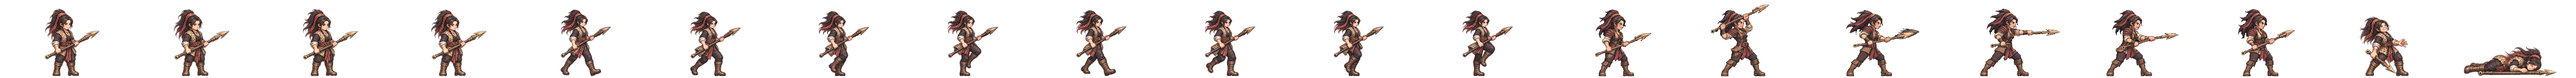
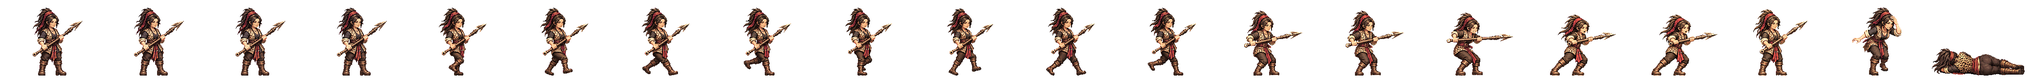
앳된 궁수 · 해적 두목 새 전투 띠를 게임에 (형 11-24: 완료된 건 게임에 반영 · 자는 동안 계속 만들어)
궁수: 서기·걷기 여덟 칸·활 쏘기·쓰러짐·개성 동작(땋은 머리 넘기기). 해적 두목: + 작살 찌르기 여덟 칸(넓은 동작 칸)·개성 동작(머리채 쓸어 넘기기).
둘 다 띠 검사 합격 · 얼굴 규칙(게임 크기에서 읽히는 단순한 얼굴)으로 그림.
wire-hero.py: 띠를 넣은 뒤 코드 네 곳(SPRITE_PX · 계획 · 옛 2배 그림 연결 · 겨루기)을 한 번에 맞춘다.
strip-build: 서기를 걷기에 맞출 때 가로·세로를 함께 겹쳐 본다(검사와 같은 셈).

Claude-Session: https://claude.ai/code/session_01TRiuN7s6aDfSnaHxrkctmU

Changed region(s): [[0.4688, 0.0625, 1.0, 0.9688], [0.0, 0.125, 0.4375, 0.9688]]

diff --git a/src/realm/data/spritePx.ts b/src/realm/data/spritePx.ts
@@ -1,3 +1,3 @@
 /** public/realm/anim-px/manifest.json 의 사본 — tools/sprite-normalize.mjs 가 만든다 (손으로 고치지 말 것). 칸 [가로, 세로] · feet = 발 줄(칸 위에서 y) · bodyPx = 서 있는 몸 키 */
 import { expandManifest } from './sprite-manifest.ts'
-export const SPRITE_PX: Readonly<Record<string, { readonly cell: readonly [number, number]; readonly feet: number; readonly bodyPx: number; readonly kind: 'general' | 'soldier' | 'folk' | 'crowd'; readonly cells: number }>> = expandManifest<{ readonly cell: readonly [number, number]; readonly feet: number; readonly bodyPx: number; readonly kind: 'general' | 'soldier' | 'folk' | 'crowd'; readonly cells: number }>([{"cell":[166,128],"feet":126,"bodyPx":124,"kind":"soldier","cells":20},{"cell":[116,128],"feet":126,"bodyPx":117,"kind":"soldier","cells":20},{"cell":[127,128],"feet":126,"bodyPx":116,"kind":"soldier","cells":20},{"cell":[269,128],"feet":126,"bodyPx":126,"kind":"soldier","cells":20},{"cell":[503,128],"feet":126,"bodyPx":127,"kind":"soldier","cells":20},{"cell":[614,128],"feet":126,"bodyPx":126,"kind":"soldier","cells":20},{"cell":[200,160],"feet":156,"bodyPx":138,"kind":"general","cells":20},{"cell":[208,160],"feet":155,"bodyPx":138,"kind":"general","cells":20},{"cell":[232,160],"feet":156,"bodyPx":138,"kind":"general","cells":20},{"cell":[208,160],"feet":154,"bodyPx":138,"kind":"general","cells":20},{"cell":[304,160],"feet":155,"bodyPx":135,"kind":"general","cells":20},{"cell":[224,160],"feet":156,"bodyPx":139,"kind":"general","cells":20},{"cell":[184,160],"feet":156,"bodyPx":138,"kind":"general","cells":20},{"cell":[208,160],"feet":154,"bodyPx":136,"kind":"general","cells":20},{"cell":[240,160],"feet":156,"bodyPx":138,"kind":"general","cells":20},{"cell":[208,160],"feet":156,"bodyPx":138,"kind":"general","cells":20},{"cell":[168,160],"feet":156,"bodyPx":138,"kind":"general","cells":20},{"cell":[192,160],"feet":156,"bodyPx":138,"kind":"general","cells":20},{"cell":[168,160],"feet":156,"bodyPx":124,"kind":"general","cells":20},{"cell":[216,160],"feet":156,"bodyPx":130,"kind":"general","cells":20},{"cell":[200,160],"feet":156,"bodyPx":116,"kind":"general","cells":20},{"cell":[200,160],"feet":156,"bodyPx":135,"kind":"general","cells":20},{"cell":[280,160],"feet":156,"bodyPx":138,"kind":"general","cells":20},{"cell":[232,160],"feet":155,"bodyPx":138,"kind":"general","cells":20},{"cell":[232,160],"feet":156,"bodyPx":134,"kind":"general","cells":20},{"cell":[144,160],"feet":156,"bodyPx":70,"kind":"general","cells":20},{"cell":[208,160],"feet":156,"bodyPx":70,"kind":"general","cells":20},{"cell":[192,160],"feet":156,"bodyPx":70,"kind":"general","cells":20},{"cell":[240,160],"feet":155,"bodyPx":138,"kind":"general","cells":20},{"cell":[160,160],"feet":156,"bodyPx":135,"kind":"general","cells":20},{"cell":[192,160],"feet":156,"bodyPx":128,"kind":"general","cells":20},{"cell":[224,160],"feet":155,"bodyPx":138,"kind":"general","cells":20},{"cell":[232,160],"feet":156,"bodyPx":139,"kind":"general","cells":20},{"cell":[264,160],"feet":155,"bodyPx":138,"kind":"general","cells":20},{"cell":[216,160],"feet":156,"bodyPx":138,"kind":"general","cells":20},{"cell":[208,160],"feet":156,"bodyPx":134,"kind":"general","cells":20},{"cell":[176,160],"feet":156,"bodyPx":130,"kind":"general","cells":20},{"cell":[248,160],"feet":156,"bodyPx":138,"kind":"general","cells":20},{"cell":[248,160],"feet":155,"bodyPx":138,"kind":"general","cells":20},{"cell":[192,160],"feet":155,"bodyPx":138,"kind":"general","cells":20},{"cell":[192,160],"feet":156,"bodyPx":124,"kind":"general","cells":20},{"cell":[208,160],"feet":154,"bodyPx":131,"kind":"general","cells":20},{"cell":[256,160],"feet":156,"bodyPx":138,"kind":"general","cells":20},{"cell":[232,160],"feet":156,"bodyPx":73,"kind":"general","cells":20},{"cell":[256,160],"feet":155,"bodyPx":138,"kind":"general","cells":20},{"cell":[224,160],"feet":156,"bodyPx":138,"kind":"general","cells":20},{"cell":[264,160],"feet":156,"bodyPx":138,"kind":"general","cells":20},{"cell":[224,160],"feet":156,"bodyPx":128,"kind":"general","cells":20},{"cell":[176,160],"feet":156,"bodyPx":129,"kind":"general","cells":20},{"cell":[208,160],"feet":156,"bodyPx":132,"kind":"general","cells":20},{"cell":[216,160],"feet":155,"bodyPx":138,"kind":"general","cells":20},{"cell":[184,160],"feet":156,"bodyPx":122,"kind":"general","cells":20},{"cell":[176,160],"feet":156,"bodyPx":138,"kind":"general","cells":20},{"cell":[280,160],"feet":155,"bodyPx":133,"kind":"general","cells":20},{"cell":[176,160],"feet":156,"bodyPx":70,"kind":"general","cells":20},{"cell":[186,128],"feet":126,"bodyPx":127,"kind":"soldier","cells":20},{"cell":[298,128],"feet":126,"bodyPx":126,"kind":"soldier","cells":20},{"cell":[82,128],"feet":126,"bodyPx":114,"kind":"folk","cells":8},{"cell":[134,128],"feet":126,"bodyPx":119,"kind":"soldier","cells":20},{"cell":[380,128],"feet":126,"bodyPx":124,"kind":"soldier","cells":20},{"cell":[114,128],"feet":126,"bodyPx":115,"kind":"soldier","cells":20},{"cell":[122,128],"feet":126,"bodyPx":114,"kind":"soldier","cells":20},{"cell":[254,128],"feet":126,"bodyPx":128,"kind":"soldier","cells":20},{"cell":[438,128],"feet":126,"bodyPx":126,"kind":"soldier","cells":20},{"cell":[88,128],"feet":126,"bodyPx":113,"kind":"folk","cells":8},{"cell":[100,128],"feet":126,"bodyPx":115,"kind":"folk","cells":8},{"cell":[108,128],"feet":126,"bodyPx":115,"kind":"folk","cells":8},{"cell":[63,128],"feet":126,"bodyPx":113,"kind":"folk","cells":8},{"cell":[69,96],"feet":96,"bodyPx":96,"kind":"crowd","cells":1},{"cell":[54,96],"feet":96,"bodyPx":96,"kind":"crowd","cells":1},{"cell":[47,96],"feet":96,"bodyPx":96,"kind":"crowd","cells":1},{"cell":[49,96],"feet":96,"bodyPx":96,"kind":"crowd","cells":1},{"cell":[57,96],"feet":96,"bodyPx":96,"kind":"crowd","cells":1},{"cell":[55,96],"feet":96,"bodyPx":96,"kind":"crowd","cells":1},{"cell":[45,96],"feet":96,"bodyPx":96,"kind":"crowd","cells":1},{"cell":[53,96],"feet":96,"bodyPx":96,"kind":"crowd","cells":1},{"cell":[64,96],"feet":96,"bodyPx":96,"kind":"crowd","cells":1},{"cell":[184,160],"feet":156,"bodyPx":124,"kind":"general","cells":20},{"cell":[184,160],"feet":156,"bodyPx":134,"kind":"general","cells":20},{"cell":[224,160],"feet":156,"bodyPx":133,"kind":"general","cells":20},{"cell":[192,160],"feet":156,"bodyPx":135,"kind":"general","cells":20},{"cell":[184,160],"feet":156,"bodyPx":137,"kind":"general","cells":20},{"cell":[216,160],"feet":156,"bodyPx":134,"kind":"general","cells":20},{"cell":[216,160],"feet":156,"bodyPx":132,"kind":"general","cells":20},{"cell":[288,160],"feet":156,"bodyPx":138,"kind":"general","cells":20},{"cell":[208,160],"feet":154,"bodyPx":139,"kind":"general","cells":20},{"cell":[192,160],"feet":156,"bodyPx":118,"kind":"general","cells":20},{"cell":[192,160],"feet":156,"bodyPx":134,"kind":"general","cells":20},{"cell":[192,160],"feet":157,"bodyPx":139,"kind":"general","cells":20},{"cell":[184,160],"feet":156,"bodyPx":128,"kind":"general","cells":20},{"cell":[240,160],"feet":156,"bodyPx":128,"kind":"general","cells":20},{"cell":[184,160],"feet":156,"bodyPx":132,"kind":"general","cells":20},{"cell":[208,160],"feet":156,"bodyPx":123,"kind":"general","cells":20},{"cell":[176,160],"feet":156,"bodyPx":116,"kind":"general","cells":20},{"cell":[272,160],"feet":156,"bodyPx":138,"kind":"general","cells":20},{"cell":[176,160],"feet":156,"bodyPx":122,"kind":"general","cells":20},{"cell":[232,160],"feet":156,"bodyPx":127,"kind":"general","cells":20},{"cell":[176,160],"feet":156,"bodyPx":137,"kind":"general","cells":20},{"cell":[184,160],"feet":156,"bodyPx":133,"kind":"general","cells":20}],[["axe",0],["bandit-chief",1],["bandit-club",2],["boat",3],["bow",4],["crossbow",5],["gen-adogan",6],["gen-alpyeong",7],["gen-ara",8],["gen-areum",9],["gen-aryeong",10],["gen-bakdal",6],["gen-baram",11],["gen-bdanbi",12],["gen-beom",13],["gen-beombal",12],["gen-beomi",14],["gen-bira",8],["gen-biryu",15],["gen-budeul",16],["gen-byeol",17],["gen-daemusin",18],["gen-daeso",19],["gen-dallae2",12],["gen-dalli",12],["gen-damul",20],["gen-danbi",15],["gen-dangung",17],["gen-darae",21],["gen-dokmudeom",7],["gen-duman",22],["gen-eomni",23],["gen-eureum",24],["gen-g-bow",25],["gen-g-spear",26],["gen-g-sword",27],["gen-gaennae",6],["gen-gamsil",28],["gen-gaon",29],["gen-geota",15],["gen-geumbawi",12],["gen-geumha",30],["gen-goeun",15],["gen-gom",31],["gen-gomok",15],["gen-gureum",28],["gen-guryema",17],["gen-gwaeyu",8],["gen-haebi",9],["gen-haedal",6],["gen-haesol",32],["gen-halla",7],["gen-heo",33],["gen-hneoul",12],["gen-hogong",34],["gen-hojin",15],["gen-horselord",35],["gen-hwalmi",36],["gen-hyeokgeose",17],["gen-hyeopbo",6],["gen-irang",15],["gen-jibaekho",37],["gen-jinha",38],["gen-jita",39],["gen-jumong",40],["gen-keundol",7],["gen-maehwa",41],["gen-maenun",17],["gen-malgalgi",42],["gen-mari",14],["gen-maro",37],["gen-maryeo",15],["gen-mdallae",32],["gen-mir",6],["gen-mount",43],["gen-mulbeom",44],["gen-mulsae",34],["gen-musoe",34],["gen-noeul",45],["gen-nuri",46],["gen-ocheongan",45],["gen-odi",38],["gen-odogan",6],["gen-ogan",17],["gen-oi",47],["gen-olddaeso",24],["gen-onjo",48],["gen-pidogan",15],["gen-sagong",31],["gen-sdallae",6],["gen-sincheongan",34],["gen-singwigan",34],["gen-sinneoul",23],["gen-sobeol",23],["gen-soebi",6],["gen-soebo",49],["gen-soenun",37],["gen-sogeumbi",50],["gen-songbi",45],["gen-songyang",51],["gen-sori",52],["gen-soseono",53],["gen-suro",17],["gen-tahae",6],["gen-tneoul",45],["gen-w-bow",25],["gen-w-spear",54],["gen-waechief",15],["gen-wan",34],["gen-yeodogan",15],["gen-yucheongan",15],["gen-yusugan",37],["horse",55],["marine",56],["migrant",57],["militia",58],["pike",59],["pirate-captain",60],["pirate-sword",61],["shield",62],["spear",63],["villager-builder",64],["villager-farmer",65],["villager-porter",66],["villager-woman",67],["crowd-b1",68],["crowd-b2",69],["crowd-b3",70],["crowd-b4",71],["crowd-b5",72],["crowd-b6",73],["crowd-f1",68],["crowd-f2",73],["crowd-f3",74],["crowd-f4",75],["crowd-f5",68],["crowd-f6",76],["gen-dalbit",15],["gen-base-g-07-drunk-warrior",17],["gen-base-g-40-anya-adan",15],["gen-base-w-13-young-archer",15],["gen-base-g-03-sea-trader",14],["gen-base-w-10-pirate-captain",46],["gen-base-w-64-miri-dallae",14],["gen-base-g-41-goja-bau",14],["gen-base-g-42-dokro-garam",46],["gen-base-g-09-farmer-conscript",34],["gen-base-w-02-goguryeo-lady",34],["gen-base-w-17-mahan-pearl-diver",45],["gen-base-g-17-saro-isageum",49],["gen-base-g-18-daegaya-king",77],["gen-base-g-35-dabeol-dalgu",15],["gen-base-g-19-sabeol-veteran",34],["gen-base-w-23-usisan-whale-queen",34],["gen-base-g-36-gammun-gamdol",45],["gen-base-g-20-samul-sea-lord",42],["gen-base-g-37-eumjeup-jeup",12],["gen-base-g-38-chopal-palmae",17],["gen-base-w-75-daegaya-soemoe",17],["gen-base-g-45-dabeol-deulgae",12],["gen-base-g-04-jinhan-giant",15],["gen-base-g-08-veteran",15],["gen-base-w-18-jinhan-salt-widow",15],["gen-base-w-12-court-dancer",78],["gen-base-w-83-gyeonji-beodeul",79],["gen-base-w-05-baekje-queen",80],["gen-base-w-21-baekje-court-dancer",12],["gen-base-g-01-master-smith",81],["gen-base-g-93-jomun-solgae",36],["gen-base-g-57-bihwa-neup",14],["gen-base-w-72-eumjeup-beol",15],["gen-base-w-102-garak-dana",34],["gen-base-g-68-baekje-onnuri",15],["gen-base-w-27-mokji-jinha",6],["gen-base-g-22-ungcheon-gomnae",6],["gen-base-g-23-sangdang-soedal",15],["gen-base-g-24-wansan-onsan",6],["gen-base-g-25-balla-keunmoe",34],["gen-base-g-61-heomcheuk-bawi",34],["gen-base-g-88-wander-soeul",45],["gen-base-w-14-feast-spy",6],["gen-base-g-12-silla-youth",82],["gen-base-w-08-mahan-warrior",14],["gen-base-g-62-beonye-hanul",14],["gen-base-g-63-heomcheuk-beogeum",15],["gen-base-g-84-wander-seoneul",15],["gen-base-w-50-siljik-mulga",34],["gen-base-g-46-uga-nureongso",34],["gen-base-w-80-usan-gangchi",14],["gen-base-g-47-guga-sanyanggae",34],["gen-base-w-76-gampyeong-baetsagong",37],["gen-base-g-05-mahan-chieftain",83],["gen-base-g-58-usan-uhae",15],["gen-base-g-27-maek-maekdol",15],["gen-base-w-53-hwanna-gabi",16],["gen-base-w-29-golpo-janmul",37],["gen-base-g-53-baekje-haeru",6],["gen-base-w-71-yeonna-neoul",14],["gen-base-w-79-yangmaek-solmae",34],["gen-base-w-34-chopal-deulme",46],["gen-base-g-44-maga-malgup",84],["gen-base-w-31-dabeol-dalbit",85],["gen-base-g-51-biryuna-mulgyeol",45],["gen-base-g-48-gwanna-musoe",15],["gen-base-g-32-uga-sodu",8],["gen-base-g-49-goguryeo-sona",86],["gen-base-g-30-gwanna-soemoe",45],["gen-base-g-52-tamna-oreum",12],["gen-base-g-29-yeonna-myeongsol",40],["gen-base-w-56-dongokjeo-sogeum",87],["gen-base-g-54-mokji-mahan",8],["gen-base-g-33-jeoga-metdol",17],["gen-base-w-36-baekje-maena",17],["gen-base-w-38-sangdang-bulmae",6],["gen-base-w-39-gosaburi-galmae",88],["gen-base-w-40-mujin-munui",49],["gen-base-w-41-hwanna-beodeul",89],["gen-base-w-43-uga-nuri",42],["gen-base-w-45-tamna-oreumbi",12],["gen-base-g-60-golbeol-golgae",12],["gen-base-g-61-apdok-ap",34],["gen-base-g-62-gammun-gamnamu",6],["gen-base-g-63-chopal-yeoul",37],["gen-base-g-64-michuhol-sogeumkkun",14],["gen-base-g-65-sangdang-soemangchi",45],["gen-base-g-66-geonma-malbalgup",90],["gen-base-g-67-gosaburi-buri",91],["gen-base-g-68-mujin-bitgoeul",12],["gen-base-g-69-goryong-yong",45],["gen-base-g-70-siljik-pado",14],["gen-base-w-81-byeokjin-byeolbit",8],["gen-base-w-46-geonma-maru",37],["gen-base-w-48-mujin-mudeung",14],["gen-base-g-26-gampyeong-gaetbeol",8],["gen-base-g-60-eupcha-hangyeol",92],["gen-base-g-15-shaman-man",34],["gen-base-g-85-wander-ure",37],["gen-base-g-43-hwanna-amnok",15],["gen-base-g-50-bullae-gwaha",80],["gen-base-g-55-saro-bakdal",15],["gen-base-g-56-haseulla-gwahama",6],["gen-base-w-06-buyeo-huntress",14],["gen-base-w-22-dongye-tiger-huntress",14],["gen-base-w-25-bihwa-priestess",34],["gen-base-w-24-apdok-queen",12],["gen-base-w-61-iseo-sinae",15],["gen-base-w-26-iseo-tomboy-general",46],["gen-base-g-59-yangmaek-maekson",93],["gen-aw1-haebi",45],["gen-aw1-soseono",94],["gen-aw1-gamsil",12],["gen-aw1-mir",52],["gen-aw1-dangung",6],["gen-aw1-ara",45],["gen-aw1-jumong",95],["gen-aw1-onjo",96],["gen-aw1-base-w-83-gyeonji-beodeul",17],["gen-aw1-heo",46],["gen-aw1-base-g-38-chopal-palmae",6],["gen-aw1-base-w-25-bihwa-priestess",78],["gen-aw1-sori",16],["gen-aw1-gomok",6],["gen-aw1-irang",17],["gen-aw1-budeul",16],["gen-aw1-gom",14],["gen-aw1-sdallae",6],["gen-aw1-base-w-13-young-archer",6],["gen-aw1-base-w-36-baekje-maena",97],["gen-aw1-base-g-09-farmer-conscript",46],["gen-aw1-base-w-02-goguryeo-lady",98],["gen-aw1-haedal",12],["gen-aw1-hogong",6],["gen-aw1-maehwa",52],["gen-aw1-base-w-06-buyeo-huntress",8],["gen-aw1-base-w-08-mahan-warrior",45],["gen-aw1-base-w-29-golpo-janmul",45],["gen-aw1-base-w-31-dabeol-dalbit",17],["gen-aw1-base-w-38-sangdang-bulmae",16],["gen-aw1-bira",34],["gen-aw1-base-w-53-hwanna-gabi",16],["gen-aw1-base-w-56-dongokjeo-sogeum",52],["gen-aw1-base-w-72-eumjeup-beol",17],["gen-aw1-bdanbi",16],["gen-aw1-beom",12],["gen-aw1-beombal",12],["gen-aw1-byeol",17],["gen-aw1-dalli",52],["gen-aw1-malgalgi",37],["gen-aw1-sincheongan",34]])
+export const SPRITE_PX: Readonly<Record<string, { readonly cell: readonly [number, number]; readonly feet: number; readonly bodyPx: number; readonly kind: 'general' | 'soldier' | 'folk' | 'crowd'; readonly cells: number }>> = expandManifest<{ readonly cell: readonly [number, number]; readonly feet: number; readonly bodyPx: number; readonly kind: 'general' | 'soldier' | 'folk' | 'crowd'; readonly cells: number }>([{"cell":[166,128],"feet":126,"bodyPx":124,"kind":"soldier","cells":20},{"cell":[116,128],"feet":126,"bodyPx":117,"kind":"soldier","cells":20},{"cell":[127,128],"feet":126,"bodyPx":116,"kind":"soldier","cells":20},{"cell":[269,128],"feet":126,"bodyPx":126,"kind":"soldier","cells":20},{"cell":[503,128],"feet":126,"bodyPx":127,"kind":"soldier","cells":20},{"cell":[614,128],"feet":126,"bodyPx":126,"kind":"soldier","cells":20},{"cell":[200,160],"feet":156,"bodyPx":138,"kind":"general","cells":20},{"cell":[208,160],"feet":155,"bodyPx":138,"kind":"general","cells":20},{"cell":[232,160],"feet":156,"bodyPx":138,"kind":"general","cells":20},{"cell":[208,160],"feet":154,"bodyPx":138,"kind":"general","cells":20},{"cell":[304,160],"feet":155,"bodyPx":135,"kind":"general","cells":20},{"cell":[224,160],"feet":156,"bodyPx":139,"kind":"general","cells":20},{"cell":[184,160],"feet":156,"bodyPx":138,"kind":"general","cells":20},{"cell":[208,160],"feet":154,"bodyPx":136,"kind":"general","cells":20},{"cell":[240,160],"feet":156,"bodyPx":138,"kind":"general","cells":20},{"cell":[208,160],"feet":156,"bodyPx":138,"kind":"general","cells":20},{"cell":[168,160],"feet":156,"bodyPx":138,"kind":"general","cells":20},{"cell":[192,160],"feet":156,"bodyPx":138,"kind":"general","cells":20},{"cell":[168,160],"feet":156,"bodyPx":124,"kind":"general","cells":20},{"cell":[216,160],"feet":156,"bodyPx":130,"kind":"general","cells":20},{"cell":[200,160],"feet":156,"bodyPx":116,"kind":"general","cells":20},{"cell":[200,160],"feet":156,"bodyPx":135,"kind":"general","cells":20},{"cell":[280,160],"feet":156,"bodyPx":138,"kind":"general","cells":20},{"cell":[232,160],"feet":155,"bodyPx":138,"kind":"general","cells":20},{"cell":[232,160],"feet":156,"bodyPx":134,"kind":"general","cells":20},{"cell":[144,160],"feet":156,"bodyPx":70,"kind":"general","cells":20},{"cell":[208,160],"feet":156,"bodyPx":70,"kind":"general","cells":20},{"cell":[192,160],"feet":156,"bodyPx":70,"kind":"general","cells":20},{"cell":[240,160],"feet":155,"bodyPx":138,"kind":"general","cells":20},{"cell":[160,160],"feet":156,"bodyPx":135,"kind":"general","cells":20},{"cell":[192,160],"feet":156,"bodyPx":128,"kind":"general","cells":20},{"cell":[224,160],"feet":155,"bodyPx":138,"kind":"general","cells":20},{"cell":[232,160],"feet":156,"bodyPx":139,"kind":"general","cells":20},{"cell":[264,160],"feet":155,"bodyPx":138,"kind":"general","cells":20},{"cell":[216,160],"feet":156,"bodyPx":138,"kind":"general","cells":20},{"cell":[208,160],"feet":156,"bodyPx":134,"kind":"general","cells":20},{"cell":[176,160],"feet":156,"bodyPx":130,"kind":"general","cells":20},{"cell":[248,160],"feet":156,"bodyPx":138,"kind":"general","cells":20},{"cell":[248,160],"feet":155,"bodyPx":138,"kind":"general","cells":20},{"cell":[192,160],"feet":155,"bodyPx":138,"kind":"general","cells":20},{"cell":[192,160],"feet":156,"bodyPx":124,"kind":"general","cells":20},{"cell":[208,160],"feet":154,"bodyPx":131,"kind":"general","cells":20},{"cell":[256,160],"feet":156,"bodyPx":138,"kind":"general","cells":20},{"cell":[232,160],"feet":156,"bodyPx":73,"kind":"general","cells":20},{"cell":[256,160],"feet":155,"bodyPx":138,"kind":"general","cells":20},{"cell":[224,160],"feet":156,"bodyPx":138,"kind":"general","cells":20},{"cell":[264,160],"feet":156,"bodyPx":138,"kind":"general","cells":20},{"cell":[224,160],"feet":156,"bodyPx":128,"kind":"general","cells":20},{"cell":[176,160],"feet":156,"bodyPx":129,"kind":"general","cells":20},{"cell":[208,160],"feet":156,"bodyPx":132,"kind":"general","cells":20},{"cell":[216,160],"feet":155,"bodyPx":138,"kind":"general","cells":20},{"cell":[184,160],"feet":156,"bodyPx":122,"kind":"general","cells":20},{"cell":[176,160],"feet":156,"bodyPx":138,"kind":"general","cells":20},{"cell":[280,160],"feet":155,"bodyPx":133,"kind":"general","cells":20},{"cell":[176,160],"feet":156,"bodyPx":70,"kind":"general","cells":20},{"cell":[186,128],"feet":126,"bodyPx":127,"kind":"soldier","cells":20},{"cell":[298,128],"feet":126,"bodyPx":126,"kind":"soldier","cells":20},{"cell":[82,128],"feet":126,"bodyPx":114,"kind":"folk","cells":8},{"cell":[134,128],"feet":126,"bodyPx":119,"kind":"soldier","cells":20},{"cell":[380,128],"feet":126,"bodyPx":124,"kind":"soldier","cells":20},{"cell":[114,128],"feet":126,"bodyPx":115,"kind":"soldier","cells":20},{"cell":[122,128],"feet":126,"bodyPx":114,"kind":"soldier","cells":20},{"cell":[254,128],"feet":126,"bodyPx":128,"kind":"soldier","cells":20},{"cell":[438,128],"feet":126,"bodyPx":126,"kind":"soldier","cells":20},{"cell":[88,128],"feet":126,"bodyPx":113,"kind":"folk","cells":8},{"cell":[100,128],"feet":126,"bodyPx":115,"kind":"folk","cells":8},{"cell":[108,128],"feet":126,"bodyPx":115,"kind":"folk","cells":8},{"cell":[63,128],"feet":126,"bodyPx":113,"kind":"folk","cells":8},{"cell":[69,96],"feet":96,"bodyPx":96,"kind":"crowd","cells":1},{"cell":[54,96],"feet":96,"bodyPx":96,"kind":"crowd","cells":1},{"cell":[47,96],"feet":96,"bodyPx":96,"kind":"crowd","cells":1},{"cell":[49,96],"feet":96,"bodyPx":96,"kind":"crowd","cells":1},{"cell":[57,96],"feet":96,"bodyPx":96,"kind":"crowd","cells":1},{"cell":[55,96],"feet":96,"bodyPx":96,"kind":"crowd","cells":1},{"cell":[45,96],"feet":96,"bodyPx":96,"kind":"crowd","cells":1},{"cell":[53,96],"feet":96,"bodyPx":96,"kind":"crowd","cells":1},{"cell":[64,96],"feet":96,"bodyPx":96,"kind":"crowd","cells":1},{"cell":[208,160],"feet":154,"bodyPx":139,"kind":"general","cells":20},{"cell":[184,160],"feet":156,"bodyPx":124,"kind":"general","cells":20},{"cell":[184,160],"feet":156,"bodyPx":134,"kind":"general","cells":20},{"cell":[224,160],"feet":156,"bodyPx":133,"kind":"general","cells":20},{"cell":[192,160],"feet":156,"bodyPx":135,"kind":"general","cells":20},{"cell":[184,160],"feet":156,"bodyPx":137,"kind":"general","cells":20},{"cell":[216,160],"feet":156,"bodyPx":134,"kind":"general","cells":20},{"cell":[216,160],"feet":156,"bodyPx":132,"kind":"general","cells":20},{"cell":[288,160],"feet":156,"bodyPx":138,"kind":"general","cells":20},{"cell":[192,160],"feet":156,"bodyPx":118,"kind":"general","cells":20},{"cell":[192,160],"feet":156,"bodyPx":134,"kind":"general","cells":20},{"cell":[192,160],"feet":157,"bodyPx":139,"kind":"general","cells":20},{"cell":[184,160],"feet":156,"bodyPx":128,"kind":"general","cells":20},{"cell":[240,160],"feet":156,"bodyPx":128,"kind":"general","cells":20},{"cell":[184,160],"feet":156,"bodyPx":132,"kind":"general","cells":20},{"cell":[208,160],"feet":156,"bodyPx":123,"kind":"general","cells":20},{"cell":[176,160],"feet":156,"bodyPx":116,"kind":"general","cells":20},{"cell":[272,160],"feet":156,"bodyPx":138,"kind":"general","cells":20},{"cell":[176,160],"feet":156,"bodyPx":122,"kind":"general","cells":20},{"cell":[232,160],"feet":156,"bodyPx":127,"kind":"general","cells":20},{"cell":[176,160],"feet":156,"bodyPx":137,"kind":"general","cells":20},{"cell":[184,160],"feet":156,"bodyPx":133,"kind":"general","cells":20}],[["axe",0],["bandit-chief",1],["bandit-club",2],["boat",3],["bow",4],["crossbow",5],["gen-adogan",6],["gen-alpyeong",7],["gen-ara",8],["gen-areum",9],["gen-aryeong",10],["gen-bakdal",6],["gen-baram",11],["gen-bdanbi",12],["gen-beom",13],["gen-beombal",12],["gen-beomi",14],["gen-bira",8],["gen-biryu",15],["gen-budeul",16],["gen-byeol",17],["gen-daemusin",18],["gen-daeso",19],["gen-dallae2",12],["gen-dalli",12],["gen-damul",20],["gen-danbi",15],["gen-dangung",17],["gen-darae",21],["gen-dokmudeom",7],["gen-duman",22],["gen-eomni",23],["gen-eureum",24],["gen-g-bow",25],["gen-g-spear",26],["gen-g-sword",27],["gen-gaennae",6],["gen-gamsil",28],["gen-gaon",29],["gen-geota",15],["gen-geumbawi",12],["gen-geumha",30],["gen-goeun",15],["gen-gom",31],["gen-gomok",15],["gen-gureum",28],["gen-guryema",17],["gen-gwaeyu",8],["gen-haebi",9],["gen-haedal",6],["gen-haesol",32],["gen-halla",7],["gen-heo",33],["gen-hneoul",12],["gen-hogong",34],["gen-hojin",15],["gen-horselord",35],["gen-hwalmi",36],["gen-hyeokgeose",17],["gen-hyeopbo",6],["gen-irang",15],["gen-jibaekho",37],["gen-jinha",38],["gen-jita",39],["gen-jumong",40],["gen-keundol",7],["gen-maehwa",41],["gen-maenun",17],["gen-malgalgi",42],["gen-mari",14],["gen-maro",37],["gen-maryeo",15],["gen-mdallae",32],["gen-mir",6],["gen-mount",43],["gen-mulbeom",44],["gen-mulsae",34],["gen-musoe",34],["gen-noeul",45],["gen-nuri",46],["gen-ocheongan",45],["gen-odi",38],["gen-odogan",6],["gen-ogan",17],["gen-oi",47],["gen-olddaeso",24],["gen-onjo",48],["gen-pidogan",15],["gen-sagong",31],["gen-sdallae",6],["gen-sincheongan",34],["gen-singwigan",34],["gen-sinneoul",23],["gen-sobeol",23],["gen-soebi",6],["gen-soebo",49],["gen-soenun",37],["gen-sogeumbi",50],["gen-songbi",45],["gen-songyang",51],["gen-sori",52],["gen-soseono",53],["gen-suro",17],["gen-tahae",6],["gen-tneoul",45],["gen-w-bow",25],["gen-w-spear",54],["gen-waechief",15],["gen-wan",34],["gen-yeodogan",15],["gen-yucheongan",15],["gen-yusugan",37],["horse",55],["marine",56],["migrant",57],["militia",58],["pike",59],["pirate-captain",60],["pirate-sword",61],["shield",62],["spear",63],["villager-builder",64],["villager-farmer",65],["villager-porter",66],["villager-woman",67],["crowd-b1",68],["crowd-b2",69],["crowd-b3",70],["crowd-b4",71],["crowd-b5",72],["crowd-b6",73],["crowd-f1",68],["crowd-f2",73],["crowd-f3",74],["crowd-f4",75],["crowd-f5",68],["crowd-f6",76],["gen-dalbit",15],["gen-base-g-07-drunk-warrior",17],["gen-base-g-40-anya-adan",15],["gen-base-w-13-young-archer",9],["gen-base-g-03-sea-trader",14],["gen-base-w-10-pirate-captain",77],["gen-base-w-64-miri-dallae",14],["gen-base-g-41-goja-bau",14],["gen-base-g-42-dokro-garam",46],["gen-base-g-09-farmer-conscript",34],["gen-base-w-02-goguryeo-lady",34],["gen-base-w-17-mahan-pearl-diver",45],["gen-base-g-17-saro-isageum",49],["gen-base-g-18-daegaya-king",78],["gen-base-g-35-dabeol-dalgu",15],["gen-base-g-19-sabeol-veteran",34],["gen-base-w-23-usisan-whale-queen",34],["gen-base-g-36-gammun-gamdol",45],["gen-base-g-20-samul-sea-lord",42],["gen-base-g-37-eumjeup-jeup",12],["gen-base-g-38-chopal-palmae",17],["gen-base-w-75-daegaya-soemoe",17],["gen-base-g-45-dabeol-deulgae",12],["gen-base-g-04-jinhan-giant",15],["gen-base-g-08-veteran",15],["gen-base-w-18-jinhan-salt-widow",15],["gen-base-w-12-court-dancer",79],["gen-base-w-83-gyeonji-beodeul",80],["gen-base-w-05-baekje-queen",81],["gen-base-w-21-baekje-court-dancer",12],["gen-base-g-01-master-smith",82],["gen-base-g-93-jomun-solgae",36],["gen-base-g-57-bihwa-neup",14],["gen-base-w-72-eumjeup-beol",15],["gen-base-w-102-garak-dana",34],["gen-base-g-68-baekje-onnuri",15],["gen-base-w-27-mokji-jinha",6],["gen-base-g-22-ungcheon-gomnae",6],["gen-base-g-23-sangdang-soedal",15],["gen-base-g-24-wansan-onsan",6],["gen-base-g-25-balla-keunmoe",34],["gen-base-g-61-heomcheuk-bawi",34],["gen-base-g-88-wander-soeul",45],["gen-base-w-14-feast-spy",6],["gen-base-g-12-silla-youth",83],["gen-base-w-08-mahan-warrior",14],["gen-base-g-62-beonye-hanul",14],["gen-base-g-63-heomcheuk-beogeum",15],["gen-base-g-84-wander-seoneul",15],["gen-base-w-50-siljik-mulga",34],["gen-base-g-46-uga-nureongso",34],["gen-base-w-80-usan-gangchi",14],["gen-base-g-47-guga-sanyanggae",34],["gen-base-w-76-gampyeong-baetsagong",37],["gen-base-g-05-mahan-chieftain",84],["gen-base-g-58-usan-uhae",15],["gen-base-g-27-maek-maekdol",15],["gen-base-w-53-hwanna-gabi",16],["gen-base-w-29-golpo-janmul",37],["gen-base-g-53-baekje-haeru",6],["gen-base-w-71-yeonna-neoul",14],["gen-base-w-79-yangmaek-solmae",34],["gen-base-w-34-chopal-deulme",46],["gen-base-g-44-maga-malgup",85],["gen-base-w-31-dabeol-dalbit",77],["gen-base-g-51-biryuna-mulgyeol",45],["gen-base-g-48-gwanna-musoe",15],["gen-base-g-32-uga-sodu",8],["gen-base-g-49-goguryeo-sona",86],["gen-base-g-30-gwanna-soemoe",45],["gen-base-g-52-tamna-oreum",12],["gen-base-g-29-yeonna-myeongsol",40],["gen-base-w-56-dongokjeo-sogeum",87],["gen-base-g-54-mokji-mahan",8],["gen-base-g-33-jeoga-metdol",17],["gen-base-w-36-baekje-maena",17],["gen-base-w-38-sangdang-bulmae",6],["gen-base-w-39-gosaburi-galmae",88],["gen-base-w-40-mujin-munui",49],["gen-base-w-41-hwanna-beodeul",89],["gen-base-w-43-uga-nuri",42],["gen-base-w-45-tamna-oreumbi",12],["gen-base-g-60-golbeol-golgae",12],["gen-base-g-61-apdok-ap",34],["gen-base-g-62-gammun-gamnamu",6],["gen-base-g-63-chopal-yeoul",37],["gen-base-g-64-michuhol-sogeumkkun",14],["gen-base-g-65-sangdang-soemangchi",45],["gen-base-g-66-geonma-malbalgup",90],["gen-base-g-67-gosaburi-buri",91],["gen-base-g-68-mujin-bitgoeul",12],["gen-base-g-69-goryong-yong",45],["gen-base-g-70-siljik-pado",14],["gen-base-w-81-byeokjin-byeolbit",8],["gen-base-w-46-geonma-maru",37],["gen-base-w-48-mujin-mudeung",14],["gen-base-g-26-gampyeong-gaetbeol",8],["gen-base-g-60-eupcha-hangyeol",92],["gen-base-g-15-shaman-man",34],["gen-base-g-85-wander-ure",37],["gen-base-g-43-hwanna-amnok",15],["gen-base-g-50-bullae-gwaha",81],["gen-base-g-55-saro-bakdal",15],["gen-base-g-56-haseulla-gwahama",6],["gen-base-w-06-buyeo-huntress",14],["gen-base-w-22-dongye-tiger-huntress",14],["gen-base-w-25-bihwa-priestess",34],["gen-base-w-24-apdok-queen",12],["gen-base-w-61-iseo-sinae",15],["gen-base-w-26-iseo-tomboy-general",46],["gen-base-g-59-yangmaek-maekson",93],["gen-aw1-haebi",45],["gen-aw1-soseono",94],["gen-aw1-gamsil",12],["gen-aw1-mir",52],["gen-aw1-dangung",6],["gen-aw1-ara",45],["gen-aw1-jumong",95],["gen-aw1-onjo",96],["gen-aw1-base-w-83-gyeonji-beodeul",17],["gen-aw1-heo",46],["gen-aw1-base-g-38-chopal-palmae",6],["gen-aw1-base-w-25-bihwa-priestess",79],["gen-aw1-sori",16],["gen-aw1-gomok",6],["gen-aw1-irang",17],["gen-aw1-budeul",16],["gen-aw1-gom",14],["gen-aw1-sdallae",6],["gen-aw1-base-w-13-young-archer",6],["gen-aw1-base-w-36-baekje-maena",97],["gen-aw1-base-g-09-farmer-conscript",46],["gen-aw1-base-w-02-goguryeo-lady",98],["gen-aw1-haedal",12],["gen-aw1-hogong",6],["gen-aw1-maehwa",52],["gen-aw1-base-w-06-buyeo-huntress",8],["gen-aw1-base-w-08-mahan-warrior",45],["gen-aw1-base-w-29-golpo-janmul",45],["gen-aw1-base-w-31-dabeol-dalbit",17],["gen-aw1-base-w-38-sangdang-bulmae",16],["gen-aw1-bira",34],["gen-aw1-base-w-53-hwanna-gabi",16],["gen-aw1-base-w-56-dongokjeo-sogeum",52],["gen-aw1-base-w-72-eumjeup-beol",17],["gen-aw1-bdanbi",16],["gen-aw1-beom",12],["gen-aw1-beombal",12],["gen-aw1-byeol",17],["gen-aw1-dalli",52],["gen-aw1-malgalgi",37],["gen-aw1-sincheongan",34]])

diff --git a/src/duel/view.ts b/src/duel/view.ts
@@ -100,7 +100,7 @@ const crowdFront = [1, 2, 3, 4, 5, 6].map((i) => img(`realm/duel/crowd/b${i}.png
 const crowdReady = (set: HTMLImageElement[]): boolean => set.every((im) => im.complete && im.naturalWidth > 0)
 const pxMode = cfg.px !== false && params.get('px') !== '0'
 /** 겨루기 전용 옛 띠(duel/sprites) 대신 열전과 같은 도트 띠(anim-px)를 쓰는 장수 — 두 판에서 같은 모습 · 서기 계획·쓰러지는 칸도 같다 (11-23 범 · 매화 · 달빛 · 11-24 해비 · 아룸) */
-const PX_DUEL: ReadonlySet<string> = new Set(['beom', 'maehwa', 'base-w-31-dabeol-dalbit', 'haebi', 'areum'])
+const PX_DUEL: ReadonlySet<string> = new Set(['beom', 'maehwa', 'base-w-31-dabeol-dalbit', 'haebi', 'areum', 'base-w-13-young-archer', 'base-w-10-pirate-captain'])
 /** 띠 그림 — 기본은 anim-px(도트 규격) 먼저, 없으면 옛 띠로 (img 의 onerror 가 갈아 끼운다) */
 const strip = (s: string): HTMLImageElement => pxMode
   ? DUEL_ATLASES[s] !== undefined && !PX_DUEL.has(s) ? img(`realm/duel/sprites/gen-${s}.png`, `realm/anim-px/gen-${s}.png`)

diff --git a/src/tune/params.ts b/src/tune/params.ts
@@ -1415,6 +1415,8 @@ export const HAEBI_IDLE = {
       attack: { cells: [26, 27, 28, 29, 30, 31, 32, 33], times: [.09, .08, .11, .05, .15, .07, .08, .12], hit: 4 }, xGeom: { h: 224, root: 92, foot: 216 } },
     maehwa: { cells: 26, base: [0, 1], hold: 2.4, fall: [18, 20, 21, 19], quirk: [22, 23, 24, 25], quirkTimes: [.28, .3, .42, .25] },
     'base-w-31-dabeol-dalbit': { cells: 26, base: [0, 1], hold: 2.4, fall: [18, 20, 21, 19], quirk: [22, 23, 24, 25], quirkTimes: [.28, .42, .3, .25] },
+    'base-w-13-young-archer': { cells: 26, base: [0, 1], hold: 2.4, fall: [18, 20, 21, 19], quirk: [22, 23, 24, 25], quirkTimes: [.28, .3, .42, .25] },
+    'base-w-10-pirate-captain': { cells: 34, base: [0, 1], hold: 2.4, fall: [18, 20, 21, 19], quirk: [22, 23, 24, 25], quirkTimes: [.3, .32, .4, .28], attack: { cells: [26, 27, 28, 29, 30, 31, 32, 33], times: [.09, .08, .11, .05, .15, .07, .08, .12], hit: 4 }, xGeom: { h: 224, root: 92, foot: 216 } },
   },
 } as const
 export const HAEBI_ANIM = {

diff --git a/src/raid/hero-hd.ts b/src/raid/hero-hd.ts
@@ -49,9 +49,7 @@ export const HERO_HD: Readonly<Record<string, string>> = {
   'anim-px/gen-base-w-18-jinhan-salt-widow.png': 'anim-px/gen-base-w-18-jinhan-salt-widow_hd.png',
   'anim-px/gen-base-w-17-mahan-pearl-diver.png': 'anim-px/gen-base-w-17-mahan-pearl-diver_hd.png',
   'anim-px/gen-base-w-14-feast-spy.png': 'anim-px/gen-base-w-14-feast-spy_hd.png',
-  'anim-px/gen-base-w-13-young-archer.png': 'anim-px/gen-base-w-13-young-archer_hd.png',
   'anim-px/gen-base-w-12-court-dancer.png': 'anim-px/gen-base-w-12-court-dancer_hd.png',
-  'anim-px/gen-base-w-10-pirate-captain.png': 'anim-px/gen-base-w-10-pirate-captain_hd.png',
   'anim-px/gen-aw1-base-w-13-young-archer.png': 'anim-px/gen-aw1-base-w-13-young-archer_hd.png',
   'anim-px/gen-aw1-base-w-08-mahan-warrior.png': 'anim-px/gen-aw1-base-w-08-mahan-warrior_hd.png',
   'anim-px/gen-base-w-08-mahan-warrior.png': 'anim-px/gen-base-w-08-mahan-warrior_hd.png',

diff --git a/tools/sprite-kit/wire-hero.py b/tools/sprite-kit/wire-hero.py
@@ -1,0 +1,101 @@
+# -*- coding: utf-8 -*-
+"""새 전투 띠를 게임에 잇기 — 그림을 넣은 뒤(anim-harness.py strip <장수> install) 코드 쪽 네 곳을 맞춘다 (11-24 · 같은 일을 세 번째 손으로 해서 묶음).
+  py -3 -X utf8 -I tools/sprite-kit/wire-hero.py <띠 열쇠: haebi · base-w-13-young-archer …> [quirk=.28,.3,.42,.25] [atk8 hit=4 times=.09,.08,.11,.05,.15,.07,.08,.12] [act]
+하는 일
+  1. public/realm/anim-px/manifest.json: gen-<열쇠> 의 칸(208×160) · 발 줄 · 몸 키를 **그림에서 재서** 적는다(서기 칸 0 의 맨 위·맨 아래 불투명 줄).
+     → 그 뒤 node tools/sprite-kit/headgear.mjs 를 돌려 src/realm/data/spritePx.ts 를 다시 쓴다(이 스크립트가 부른다).
+  2. src/tune/params.ts HAEBI_IDLE.plans: 계획 한 줄(덧띠 칸 수는 그림에서 센다 · 쓰러짐 18→20→21→19 · 개성 동작 22~25 · atk8 이면 공격 여덟 칸 · act 면 xGeom).
+  3. src/raid/hero-hd.ts HERO_HD: 옛 2배 그림 연결을 뺀다(칸 표 HERO_HD_SHEETS 와 각성 띠는 그대로 — 시험이 표를 요구한다).
+  4. src/duel/view.ts PX_DUEL: 겨루기도 새 도트 띠를 쓰게.
+끝나면: npm run typecheck · npm test → 커밋. 화면 확인은 따로(넓은 칸은 tools/out/cellshot.html 방식).
+"""
+import io
+import json
+import re
+import subprocess
+import sys
+import numpy as np
+from PIL import Image
+
+ROOT = 'D:/flutter/arrow_game_one/'
+ACT = dict(cw=240, ch=224, root=92, foot=216)
+
+
+def main(argv):
+    key = argv[0]
+    act = 'act' in argv
+    opt = {a.split('=')[0]: a.split('=')[1] for a in argv[1:] if '=' in a}
+    strip = f'{ROOT}public/realm/anim-px/gen-{key}.png'
+    im = Image.open(strip).convert('RGBA')
+    assert im.size == (208 * 20, 160), f'본 띠가 20칸 × 208×160 이 아니다: {im.size}'
+    a = np.asarray(im.crop((0, 0, 208, 160)))[..., 3] > 40
+    ys = np.nonzero(a.any(1))[0]
+    feet, body = int(ys.max()), int(ys.max() - ys.min() + 1)
+    xim = Image.open(strip.replace('.png', '-x.png'))
+    xcells = xim.size[0] // (ACT['cw'] if act else 208)
+    cells = 20 + xcells
+
+    # 1. manifest
+    p = ROOT + 'public/realm/anim-px/manifest.json'
+    s = io.open(p, encoding='utf-8').read()
+    m = re.search(r'"gen-%s":\{[^}]*\}' % re.escape(key), s)
+    assert m, f'manifest 에 gen-{key} 가 없다'
+    old = json.loads(m.group(0).split(':', 1)[1])
+    new = dict(old, cell=[208, 160], feet=feet, bodyPx=body, cells=20)
+    s = s.replace(m.group(0), '"gen-%s":%s' % (key, json.dumps(new, separators=(',', ':'), ensure_ascii=False)), 1)
+    io.open(p, 'w', encoding='utf-8', newline='\n').write(s)
+    print(f'manifest gen-{key}: {old} → {new}')
+
+    # 2. params.ts
+    p = ROOT + 'src/tune/params.ts'
+    s = io.open(p, encoding='utf-8').read()
+    i = s.index('  plans: {')
+    j = s.index('\n  },\n} as const', i)
+    block = s[i:j]
+    name = key if re.fullmatch(r'[a-z0-9]+', key) else f"'{key}'"
+    has_quirk = xcells >= 6
+    parts = [f'cells: {cells}', 'base: [0, 1]', 'hold: 2.4', 'fall: [18, 20, 21, 19]']
+    if has_quirk:
+        parts += ['quirk: [22, 23, 24, 25]', 'quirkTimes: [%s]' % ', '.join(opt.get('quirk', '.28,.3,.42,.25').split(','))]
+    if 'atk8' in argv:
+        a0 = cells - 8
+        parts.append('attack: { cells: [%s], times: [%s], hit: %s }' % (', '.join(str(a0 + k) for k in range(8)), ', '.join(opt.get('times', '.09,.08,.11,.05,.15,.07,.08,.12').split(',')), opt.get('hit', '4')))
+    if act:
+        parts.append('xGeom: { h: %d, root: %d, foot: %d }' % (ACT['ch'], ACT['root'], ACT['foot']))
+    line = f'    {name}: {{ {", ".join(parts)} }},'
+    if re.search(r'^\s*%s: \{' % re.escape(name), block, re.M):
+        block2 = re.sub(r'^\s*%s: \{.*?\},\n(?=\s*(?:[a-z\'"]|$))' % re.escape(name), line + '\n', block + '\n', count=1, flags=re.M | re.S).rstrip('\n')
+        print('계획 바꿈:', line.strip())
+    else:
+        block2 = block + '\n' + line
+        print('계획 넣음:', line.strip())
+    s = s[:i] + block2 + s[j:]
+    io.open(p, 'w', encoding='utf-8', newline='\n').write(s)
+
+    # 3. hero-hd.ts
+    p = ROOT + 'src/raid/hero-hd.ts'
+    s = io.open(p, encoding='utf-8').read()
+    pat = r"^\s*'anim-px/gen-%s\.png': 'anim-px/gen-%s_hd\.png',\n" % (re.escape(key), re.escape(key))
+    s2, n = re.subn(pat, '', s, flags=re.M)
+    if n:
+        io.open(p, 'w', encoding='utf-8', newline='\n').write(s2)
+    print('옛 2배 그림 연결:', '뺌' if n else '없음(그대로)')
+
+    # 4. duel PX_DUEL
+    p = ROOT + 'src/duel/view.ts'
+    s = io.open(p, encoding='utf-8').read()
+    m = re.search(r"const PX_DUEL: ReadonlySet<string> = new Set\(\[(.*?)\]\)", s)
+    assert m, 'PX_DUEL 을 못 찾음'
+    if f"'{key}'" not in m.group(1):
+        s = s.replace(m.group(0), m.group(0).replace(m.group(1), m.group(1) + f", '{key}'"), 1)
+        io.open(p, 'w', encoding='utf-8', newline='\n').write(s)
+        print('겨루기 PX_DUEL 에 넣음')
+    else:
+        print('겨루기 PX_DUEL: 이미 있음')
+
+    r = subprocess.run(['node', 'tools/sprite-kit/headgear.mjs'], cwd=ROOT, capture_output=True, text=True, encoding='utf-8')
+    print('headgear:', (r.stdout or r.stderr).strip().split('\n')[-1][:120])
+
+
+if __name__ == '__main__':
+    main(sys.argv[1:])

diff --git a/tools/sprite-kit/anim-harness.py b/tools/sprite-kit/anim-harness.py
@@ -34,7 +34,7 @@ HEROES = {
     'maehwa': dict(strip='gen-maehwa', atk='bow', atk8=False),
     'dalbit': dict(strip='gen-base-w-31-dabeol-dalbit', atk='bow', atk8=False),
     'archer': dict(strip='gen-base-w-13-young-archer', atk='bow', atk8=False),   # 앳된 궁수
-    'pirate': dict(strip='gen-base-w-10-pirate-captain', atk='thrust', atk8=True, act=True),   # 해적 두목(작살)
+    'pirate': dict(strip='gen-base-w-10-pirate-captain', atk='thrust', atk8=True, act=True, legacy=(('a', 2), ('a', 3), ('b', 3), ('b', 4))),   # 해적 두목(작살) · 끝까지 찌른 칸은 좁은 칸에 안 들어가 당기는 칸으로
     'haebi': dict(strip='gen-haebi', atk='chop', atk8=True, act=True),   # act = 공격 여덟 칸이 넓은 동작 칸(240×224 · 뿌리 92 · 발 줄 216)
     'areum': dict(strip='gen-areum', atk='slam', atk8=True, act=True, lock='none'),   # 받은 그림 그대로(얼굴을 떠다 붙이지 않는다 — 11-24: 뭉친 얼굴이 여덟 칸에 퍼졌다) · 옛 lock='face': 메가 머리 뒤로 지나간다 — 머리 상자는 메를 자르고(「포스터」), 윗몸을 통째로 묶으면 떠다닌다(11-24 형) → 얼굴 안쪽만 묶는다
 }
@@ -121,7 +121,8 @@ def quirk(name):
 def act_cells(name):
     """넓은 칸 공격 여덟 칸 → 본 띠용 좁은 칸 넷(<꼬리표>-1..4 = 준비2 · 넘어옴 · 내림 · 거둠) — 뿌리·발 줄을 맞춰 잘라 낸다. 본편 전장처럼 20칸만 읽는 곳이 쓴다"""
     h = HEROES[name]
-    src = [f'{PX}/{name}-{h["atk"]}8-{t}-{i}.png' for t, i in (('a', 2), ('a', 4), ('b', 1), ('b', 4))]
+    # 본 띠의 좁은 칸(208)은 뿌리 앞으로 104px 까지만 담는다 — 멀리 찌르는 칸은 잘린다(해적 두목 작살 119px) → 장수마다 좁은 칸에 들어가는 칸을 고른다(legacy)
+    src = [f'{PX}/{name}-{h["atk"]}8-{t}-{i}.png' for t, i in h.get('legacy', (('a', 2), ('a', 4), ('b', 1), ('b', 4)))]
     for k, sp in enumerate(src):
         im = Image.open(sp).convert('RGBA')
         o = Image.new('RGBA', (CW, CH), (0, 0, 0, 0))

diff --git a/tools/sprite-kit/strip-build.py b/tools/sprite-kit/strip-build.py
@@ -76,8 +76,15 @@ def main(name, atk, out):
             u[ys.min() + int(h * .04):ys.min() + int(h * .45)] = a[ys.min() + int(h * .04):ys.min() + int(h * .45)]
             return u
         def reg(a, r, reach=20):
-            c = [int((a ^ np.roll(r, dx, axis=1)).sum()) for dx in range(-reach, reach + 1)]
-            return int(np.argmin(c)) - reach
+            # 가로·세로를 함께 본다(anim-check 와 같은 셈) — 가로만 보면 서기와 걷기의 키가 1~2px 다를 때 엉뚱한 자리에 맞는다(궁수: 2px 로 맞췄는데 검사는 6.5px 어긋남 · 11-24)
+            best, at = None, 0
+            for dy in range(-7, 8):
+                ry = np.roll(r, dy, axis=0)
+                for dx in range(-reach, reach + 1):
+                    c = int((a ^ np.roll(ry, dx, axis=1)).sum())
+                    if best is None or c < best or (c == best and abs(dx) < abs(at)):
+                        best, at = c, dx
+            return at
         su = upper(frames[0])
         ds = [reg(upper(f), su) for f in frames[4:12]]
         d0 = int(round((max(ds) + min(ds)) / 2))
